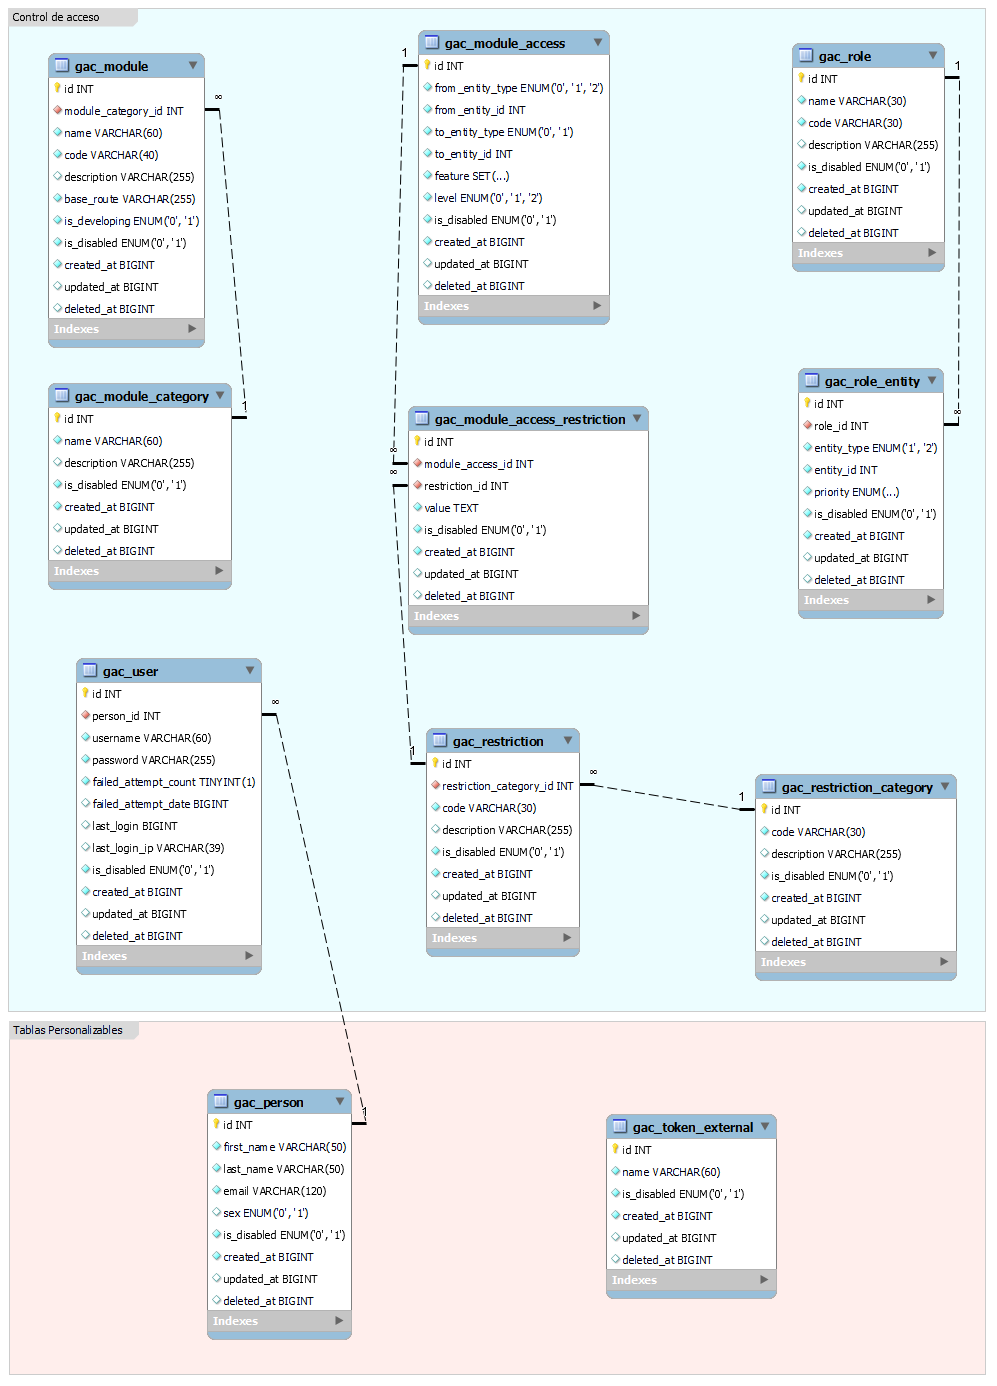
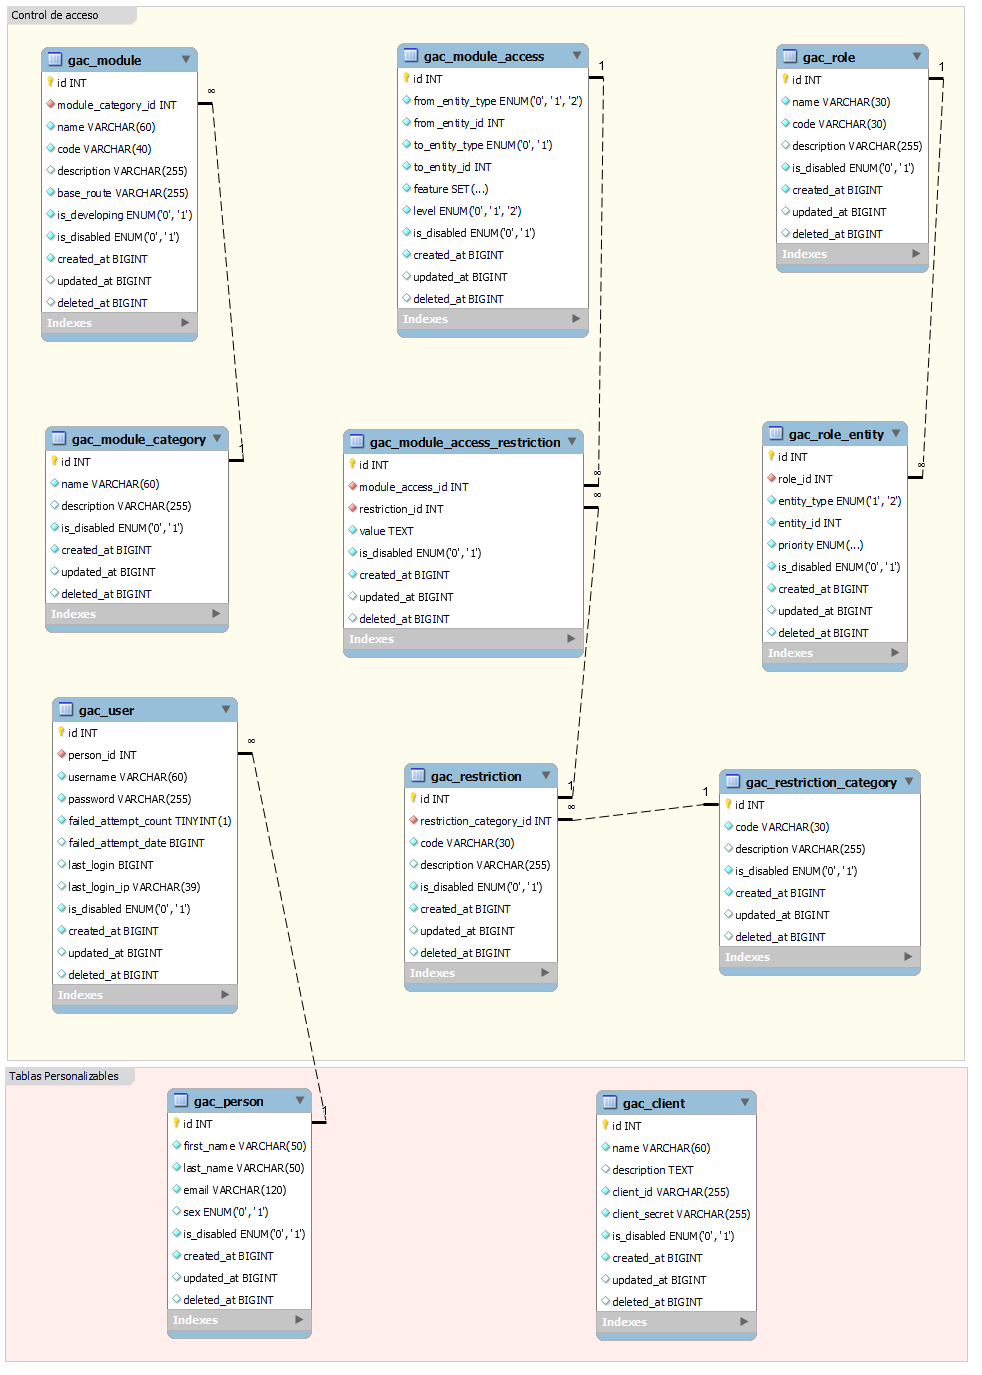
doc: the table for clients was modified.

diff --git a/README.md b/README.md
@@ -147,6 +147,7 @@ La librería utiliza una base de datos relacional para almacenar la información
 **Relaciones entre las tablas:**
 
 - Un usuario puede tener varios roles.
+- Un cliente (sistemas de información externos) puede tener varios roles.
 - Un rol puede tener múltiples permisos.
 - Los permisos pueden tener restricciones.
 
